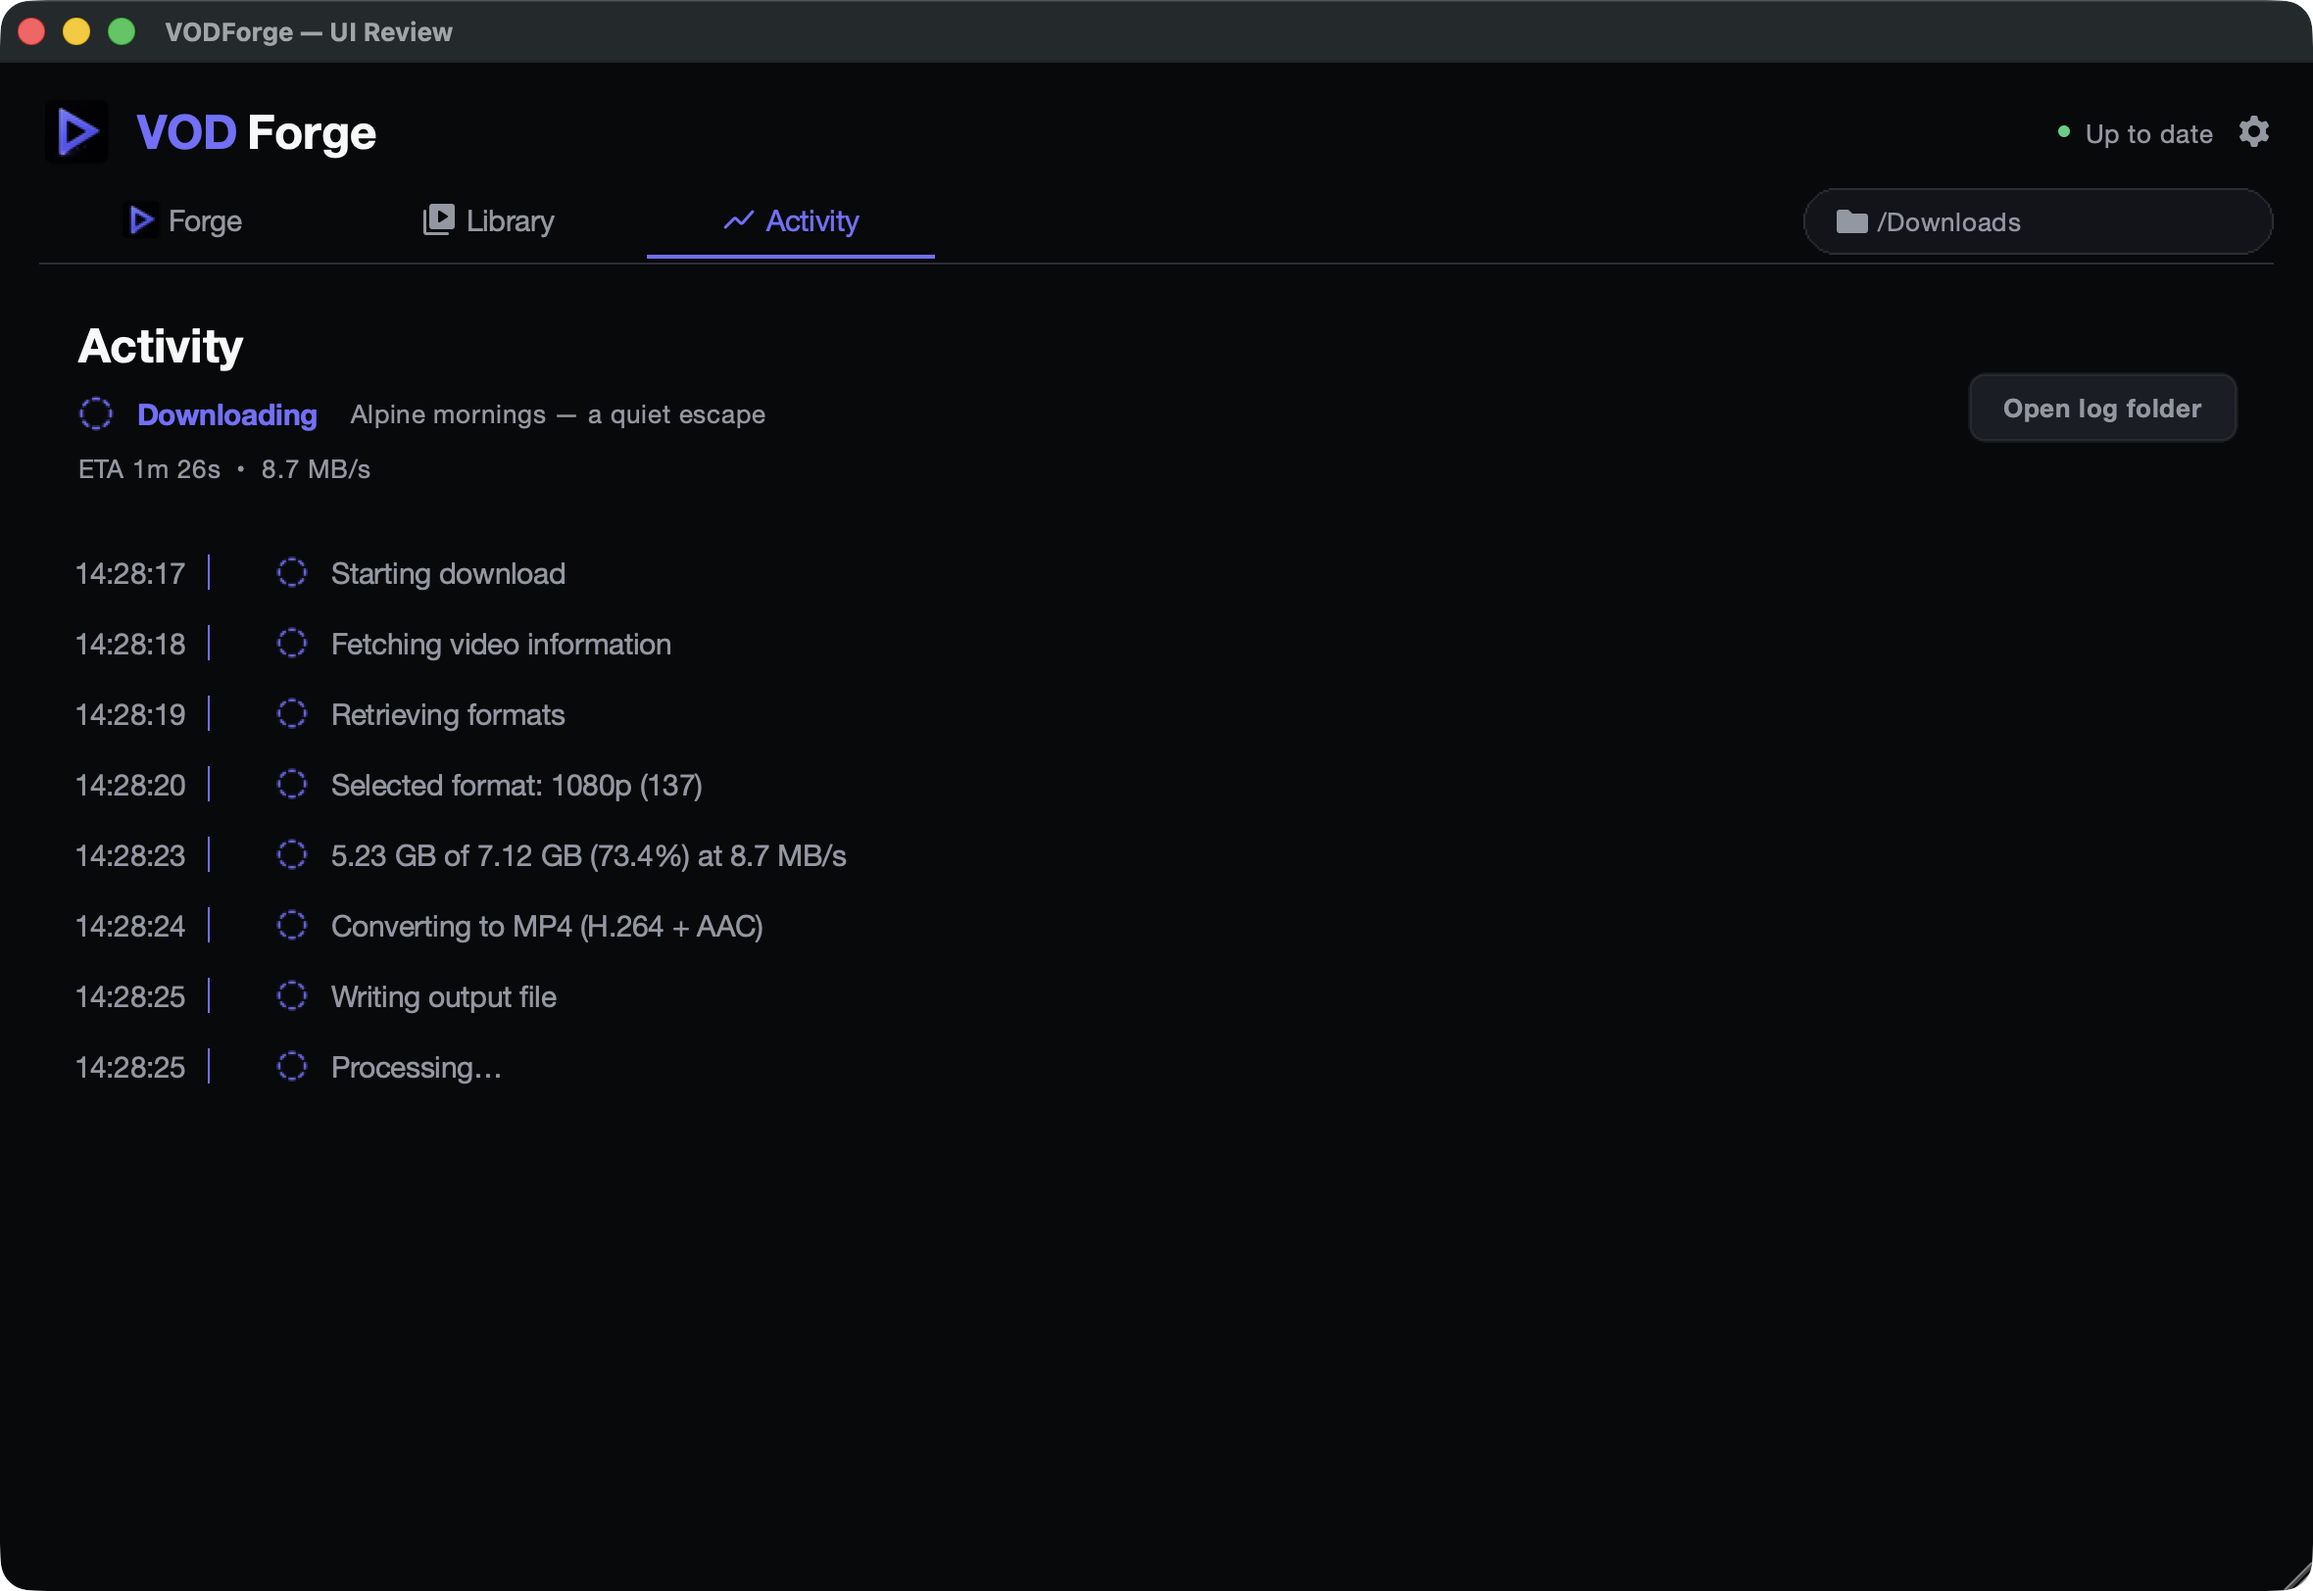
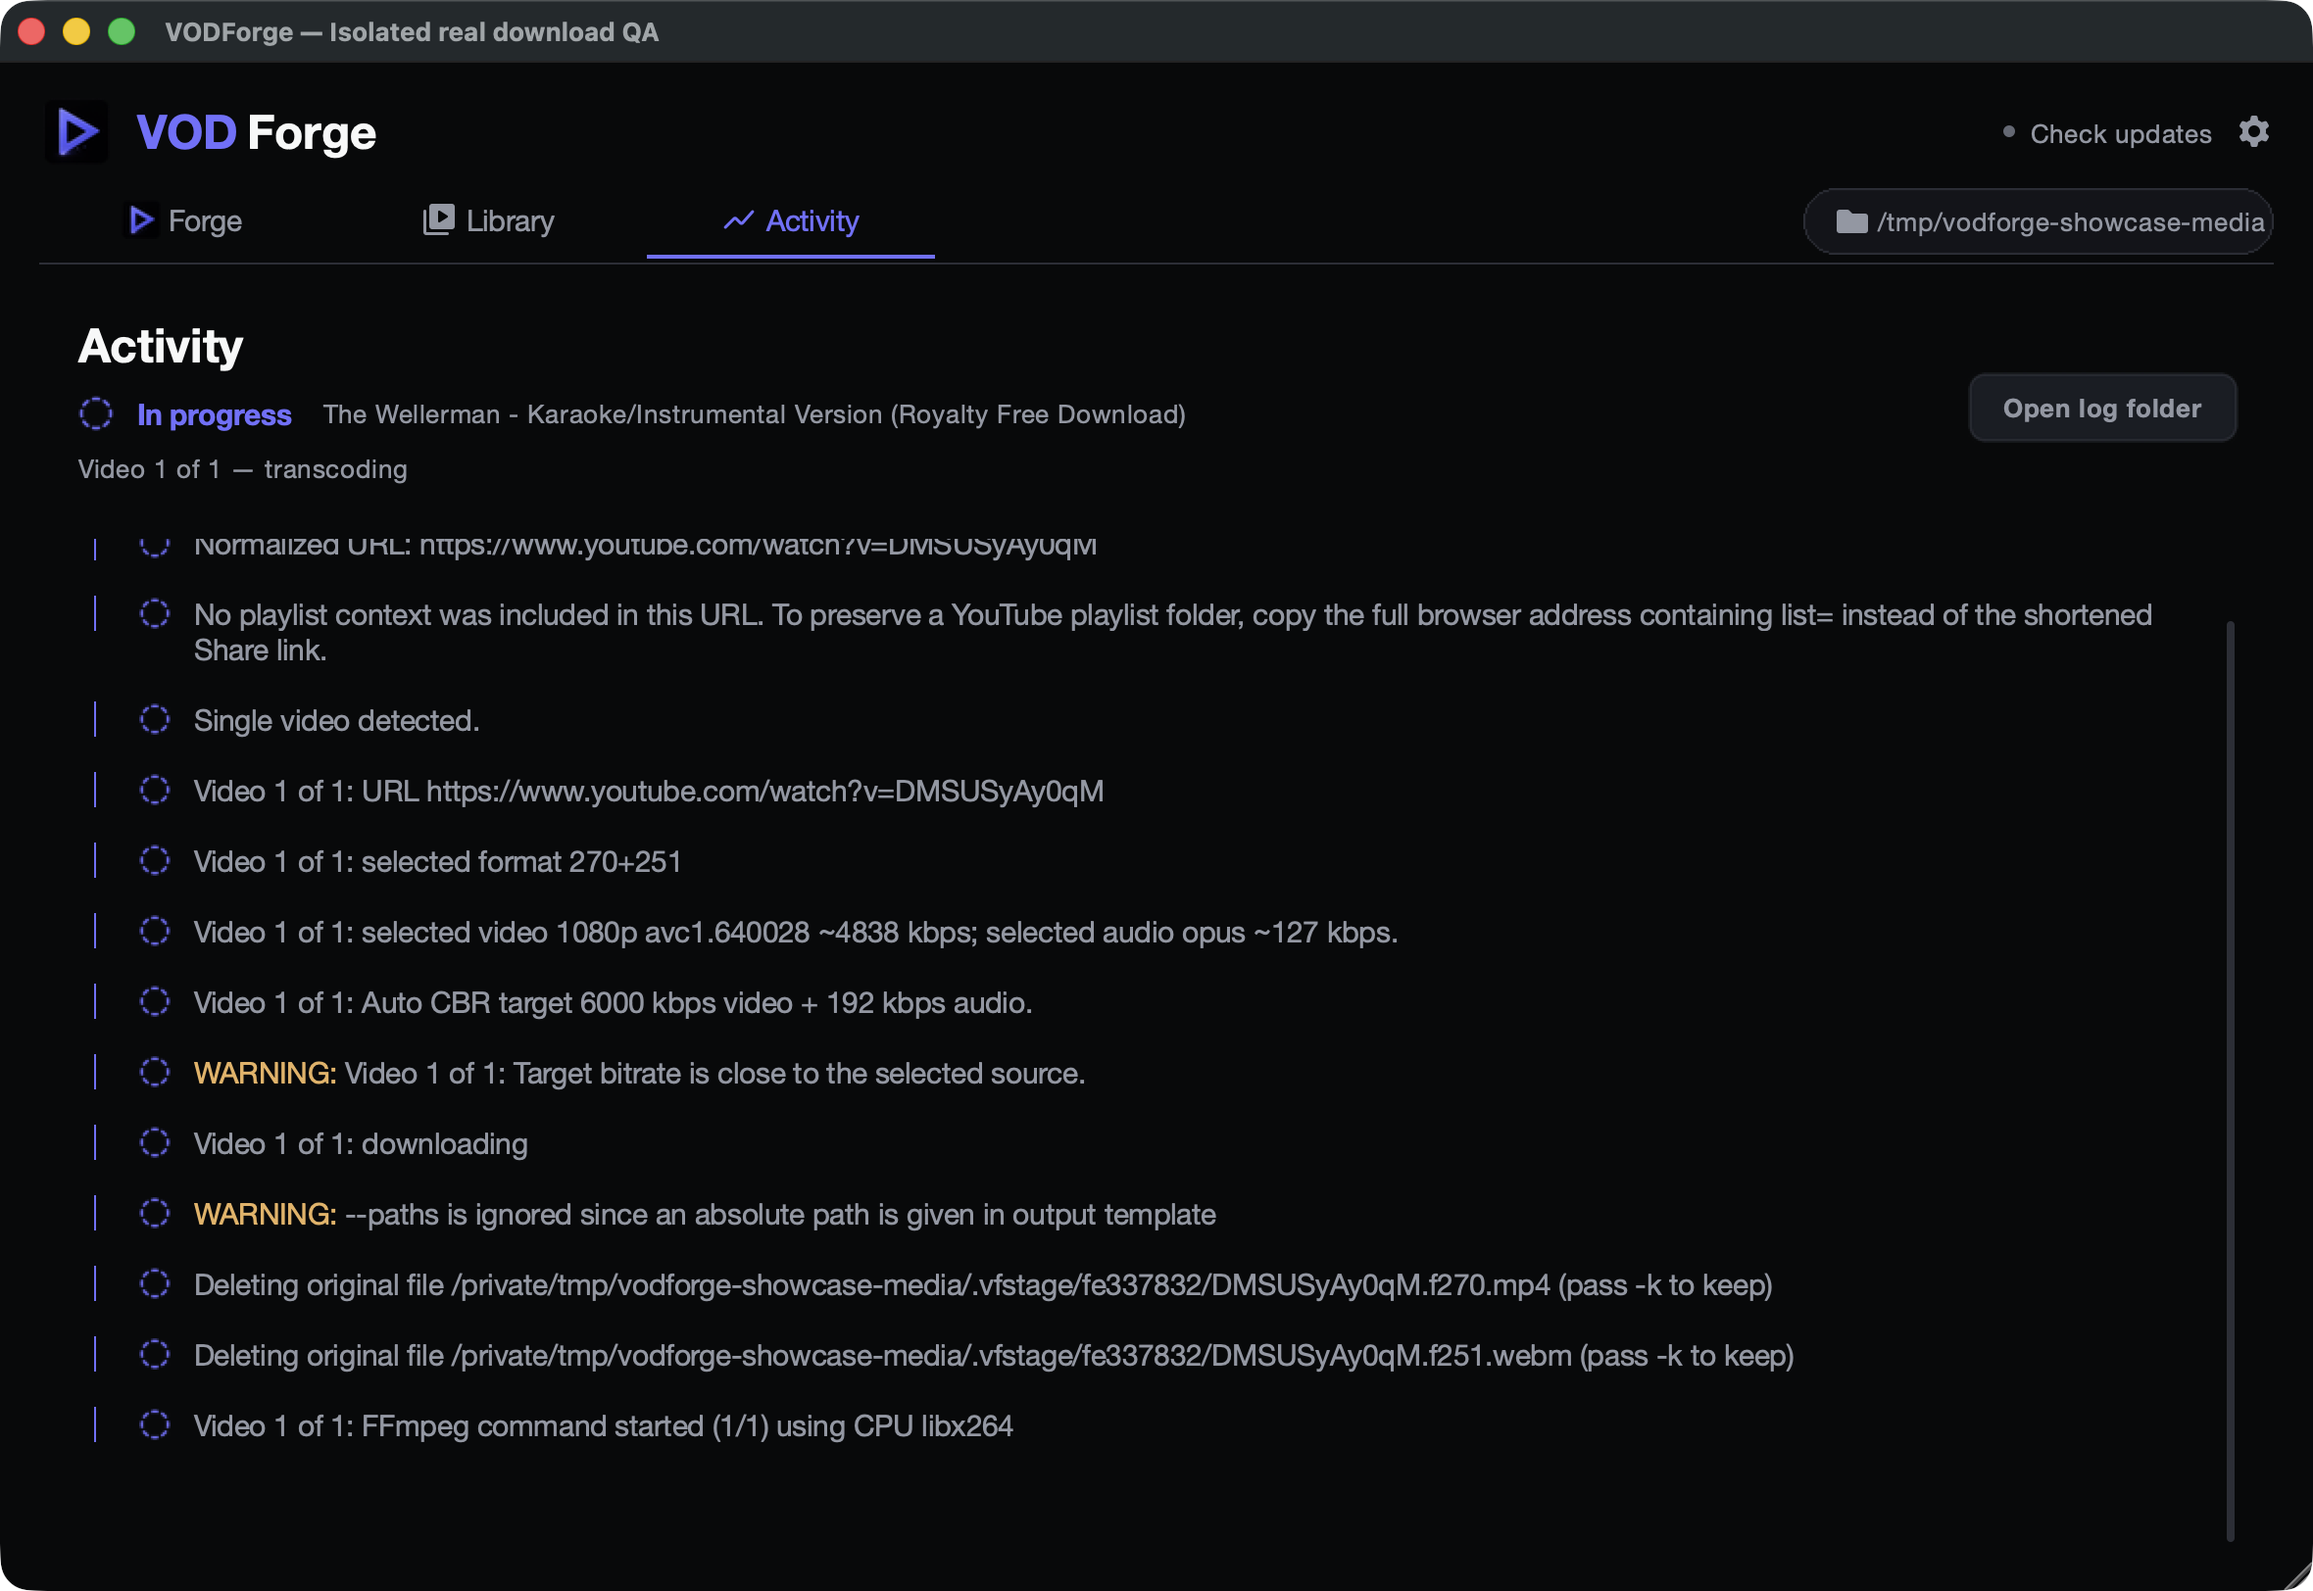
fix: showcase real pipeline activity instead of scripted logs

diff --git a/yt_downloader/whats_new.py b/yt_downloader/whats_new.py
@@ -26,7 +26,7 @@ HIGHLIGHTS = (
         "Follow each run with clearer Activity logs, theme-colored event markers, "
         "and easier-to-read messages. The same polish is in Forge’s per-run log.",
         "activity.png",
-        (0.02, 0.18, 0.55, 0.69),
+        (0.02, 0.18, 0.98, 0.73),
     ),
     FeatureHighlight(
         "ui-settings",

diff --git a/assets/whats-new/README.md b/assets/whats-new/README.md
@@ -1,7 +1,11 @@
 # Curated feature showcase
 
-These are native VODForge UI captures using fictional review fixtures, not user
-media or personal paths. They are bundled locally and require no network access.
+These are native VODForge UI captures, not generated UI mockups. Activity is a
+direct capture during a real YouTube download (DMSUSyAy0qM), with telemetry
+disabled and an isolated output directory. Its messages are emitted by the
+production pipeline, not scripted review lines or fabricated timestamps.
+The other captures use sample media and review fixtures, not user media or
+personal paths. They are bundled locally and require no network access.
 The catalog and normalized crops live in `yt_downloader/whats_new.py`.
 
 Only change `SHOWCASE_ID` when intentionally publishing a new feature showcase.
@@ -12,7 +16,7 @@ Capture source: `scripts/focus_ui_preview.py --approved --public-fixture`, with
 `--local-conversion`, `--annotation`, or `--player MP4`, plus `--capture PATH`.
 The player capture is a process-free visual fixture, not playback evidence.
 
-UI Updates leads the catalog with Activity (`--view activity`), Settings
+UI Updates leads the catalog with real-download Activity, Settings
 (`--settings`), and a close crop of the existing Player controls. The original
 three feature slides follow unchanged. These are editorial highlights, not a
 complete release-note list or claims about measured playback performance.
